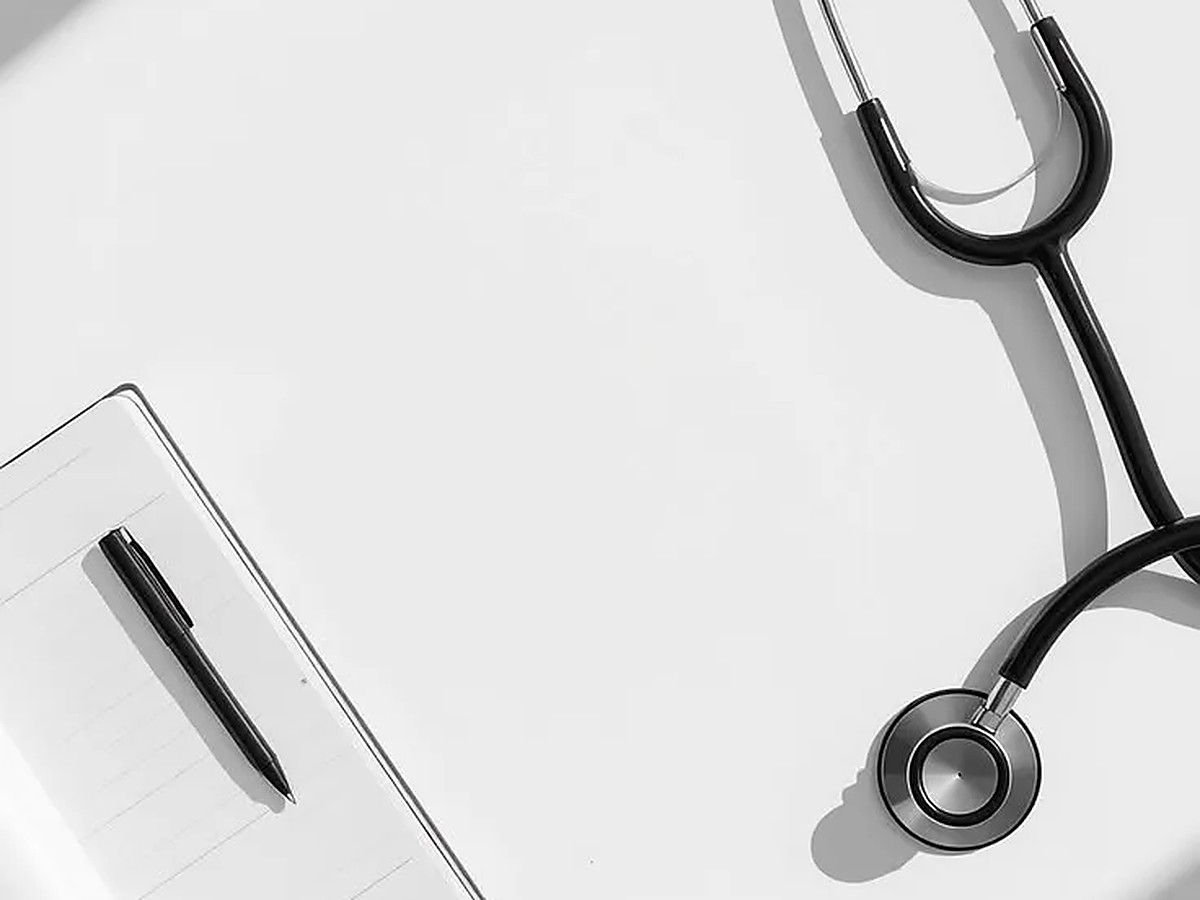
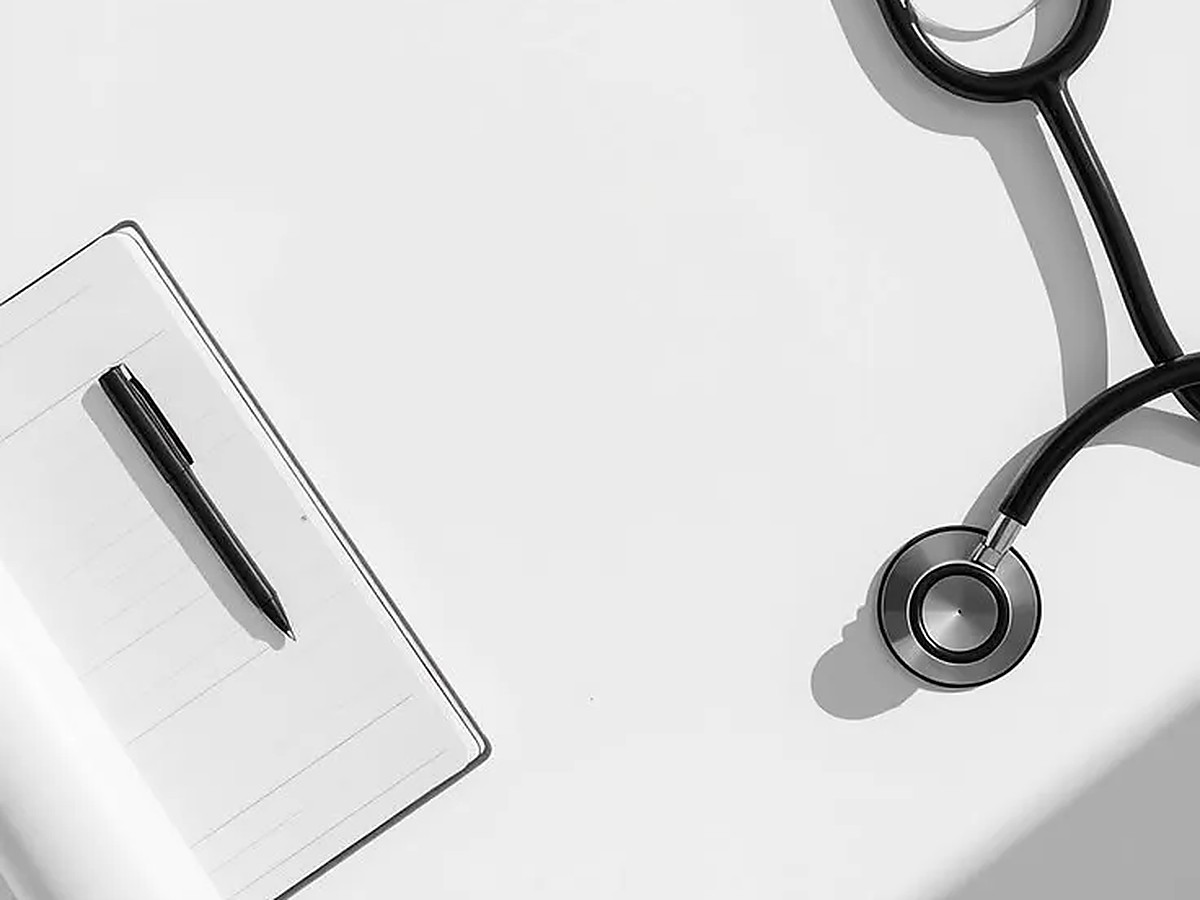
Tighter about tile crop and mobile framing

diff --git a/css/style.css b/css/style.css
@@ -1432,7 +1432,7 @@ h1,h2,h3,h4{
     border-right:1px solid var(--line);
   }
   .tile-media img{padding:8px}
-  .tile-media--cover img{padding:0}
+  .tile-media--cover img{padding:0;object-position:left center}
   .tile-body{justify-content:center;gap:3px;padding:14px 46px 14px 16px}
   .tile-title{font-size:18px}
   .tile-desc{max-width:none;font-size:12px;line-height:1.4}
